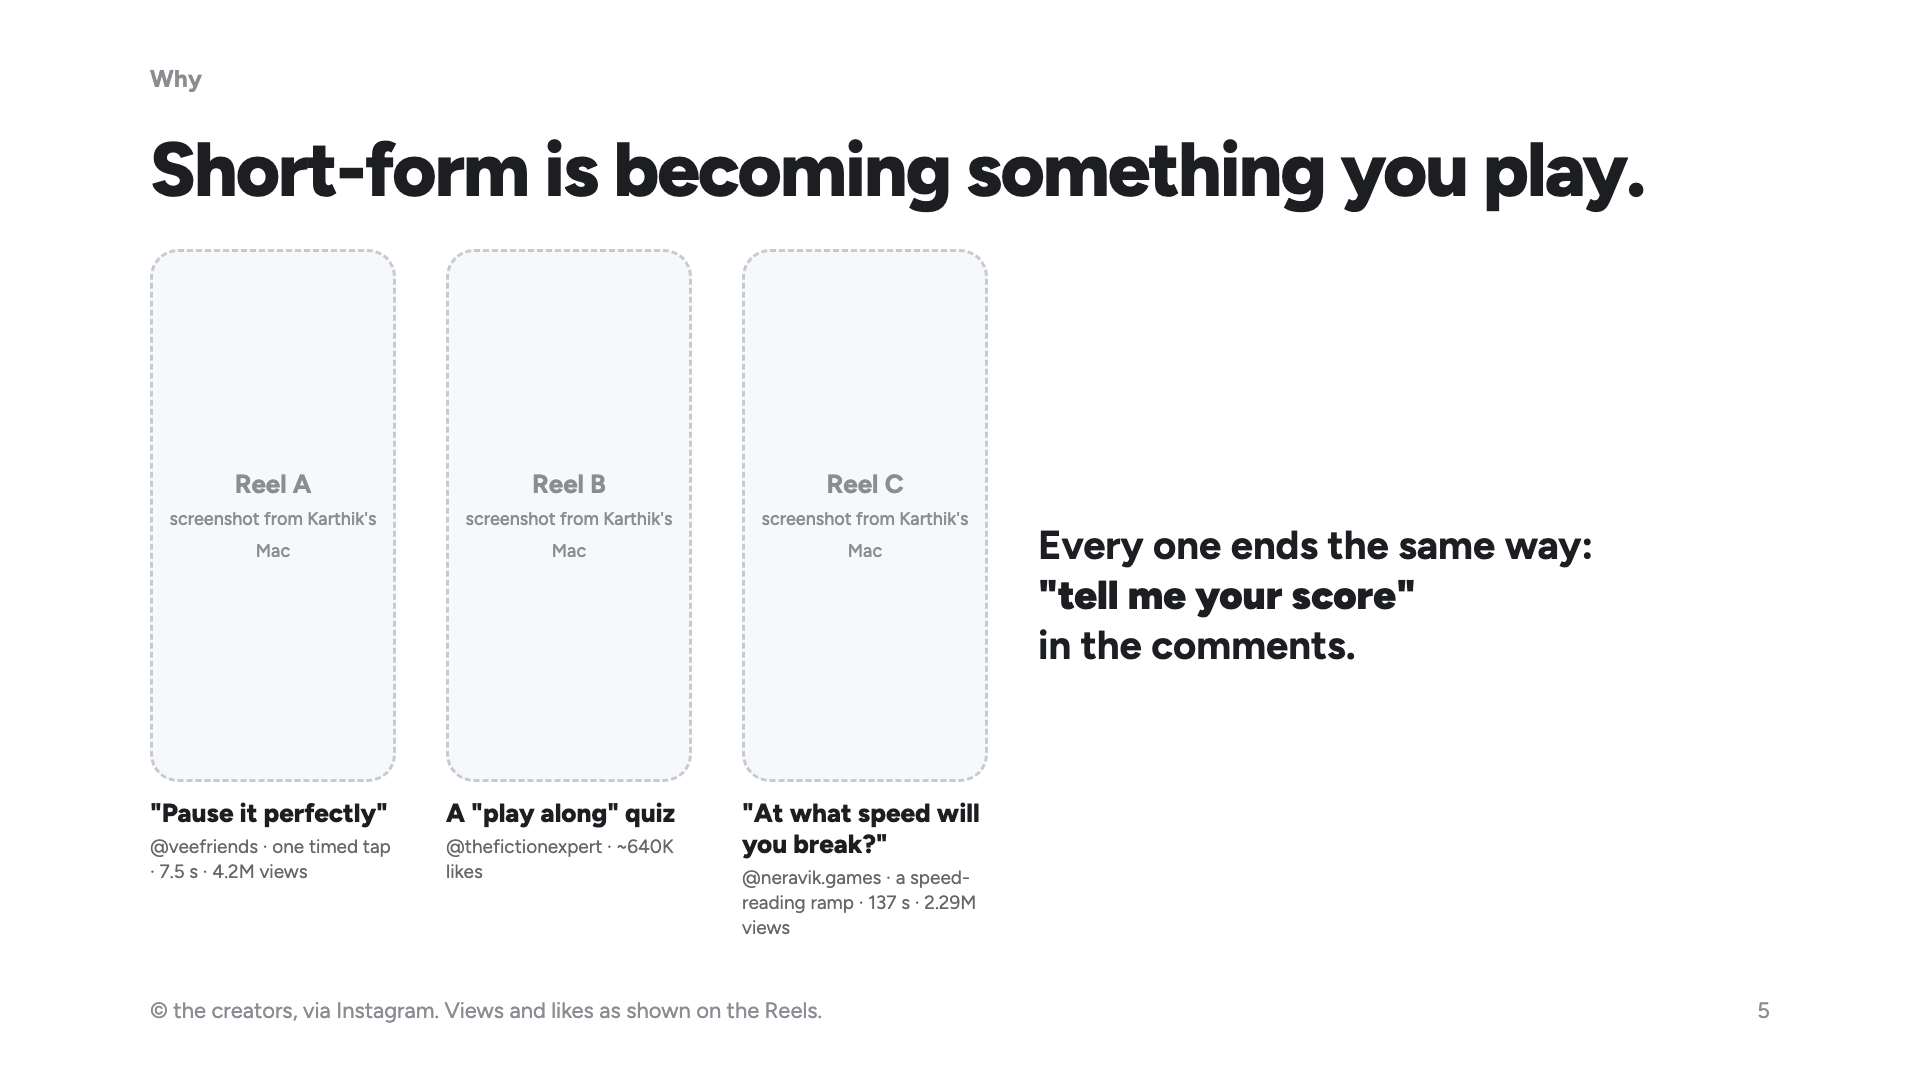
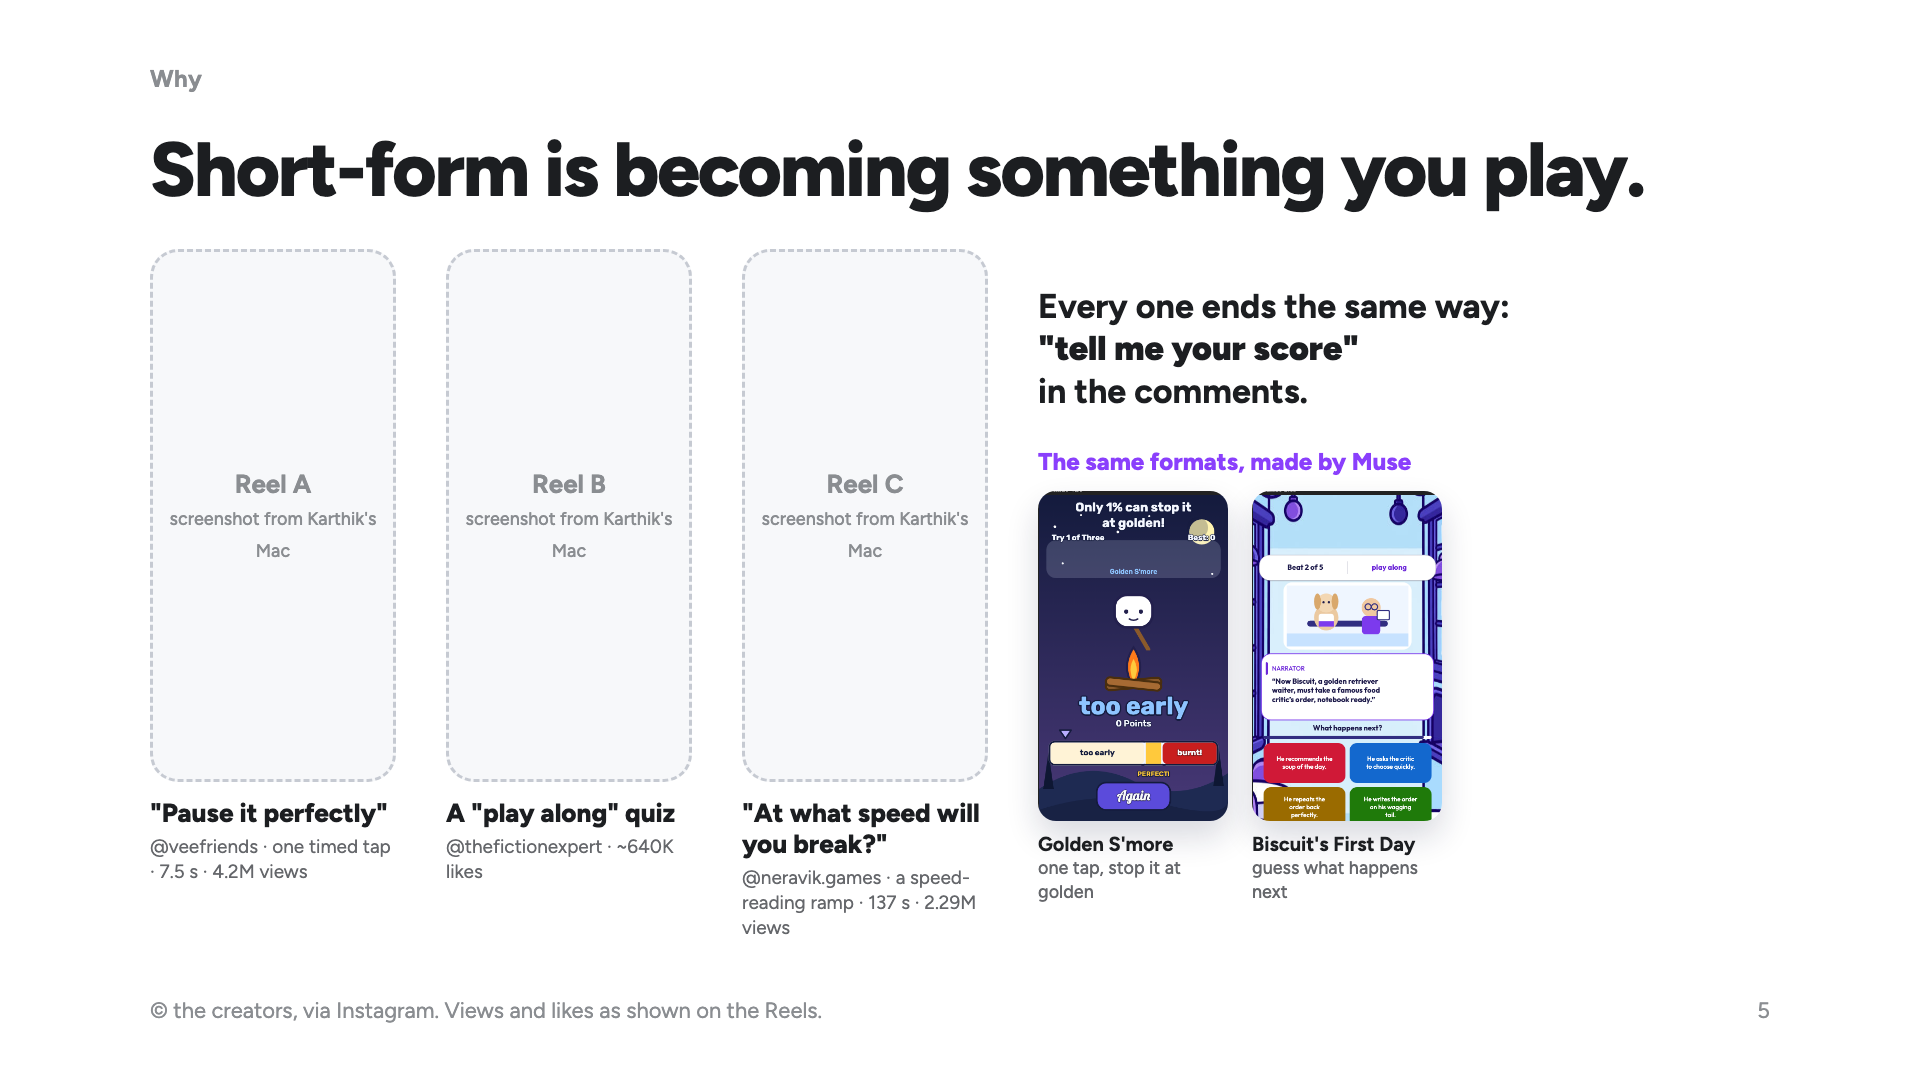
Pitch slide 5: the same Reel formats, made by Muse (Golden S'more, Biscuit's First Day), with the honesty rules in narrative.md

Changed region(s): [[0.5312, 0.275, 0.8438, 0.8556]]

diff --git a/docs/pr/slides/deck.html b/docs/pr/slides/deck.html
@@ -325,6 +325,9 @@ h2 { font-size: 96px; line-height: 1.04; font-weight: 800; letter-spacing: -.025
 .frame.ny3 { width: 160px; height: 347px; }
 .reels { grid-template-columns: 246px 246px 246px 1fr; gap: 50px; }
 .reelf .frame { width: 246px; height: 533px; }
+.rline { font-size: 34px; } .musemade { margin-top: 34px; } .mmh { font-size: 24px; font-weight: 800; color: var(--violet); margin-bottom: 14px; }
+.mmrow { display: flex; gap: 24px; } .mmrow figure { width: 190px; } .mmrow img { width: 190px; height: 330px; object-fit: cover; object-position: top; border-radius: 18px; display: block; box-shadow: 0 16px 32px rgba(16,24,64,.16); }
+.mmrow figcaption { font-size: 18px; color: var(--sub); line-height: 1.3; margin-top: 10px; font-weight: 500; } .mmrow figcaption b { display: block; color: var(--ink); font-size: 20px; }
 </style>
 </head>
 <body>
@@ -409,7 +412,10 @@ h2 { font-size: 96px; line-height: 1.04; font-weight: 800; letter-spacing: -.025
     <div class="reelf"><div class="frame" id="reel1"><span>Reel A<br><small>screenshot from Karthik's Mac</small></span></div><b>"Pause it perfectly"</b><i>@veefriends · one timed tap · 7.5 s · 4.2M views</i></div>
     <div class="reelf"><div class="frame" id="reel2"><span>Reel B<br><small>screenshot from Karthik's Mac</small></span></div><b>A "play along" quiz</b><i>@thefictionexpert · ~640K likes</i></div>
     <div class="reelf"><div class="frame" id="reel3"><span>Reel C<br><small>screenshot from Karthik's Mac</small></span></div><b>"At what speed will you break?"</b><i>@neravik.games · a speed-reading ramp · 137 s · 2.29M views</i></div>
-    <div class="rline">Every one ends the same way:<br><b>"tell me your score"</b><br>in the comments.</div>
+    <div class="rline">Every one ends the same way:<br><b>"tell me your score"</b><br>in the comments.
+      <div class="musemade"><div class="mmh">The same formats, made by Muse</div>
+        <div class="mmrow"><figure><img src="img/muse-golden-smore.png"><figcaption><b>Golden S'more</b>one tap, stop it at golden</figcaption></figure>
+        <figure><img src="img/muse-biscuit-waiter.png"><figcaption><b>Biscuit's First Day</b>guess what happens next</figcaption></figure></div></div></div>
   </div>
   <div class="foot"><span>© the creators, via Instagram. Views and likes as shown on the Reels.</span><span class="pg"></span></div>
 </section>

diff --git a/docs/pr/narrative.md b/docs/pr/narrative.md
@@ -41,6 +41,8 @@ Interactive mini-experiences keep people in their apps, and the industry is movi
 - Three Reels [138]: A "Pause it perfectly" (@veefriends, 7.5 s, 4.2M views, one timed tap); B a "play along" quiz (@thefictionexpert, ~640K likes; don't describe its mechanics); C "At what speed will you break?" (@neravik.games, 137 s, 2.29M views, a speed-reading ramp). All three end with "tell me your score" in the comments. **Line:** "A Curio turns 'tell me your score' in the comments into a real, comparable Group score."
 - Story quiz: The Podium and Purr Earth are hand-made with the story-quiz fragment; never "made by Muse". Root Words is made by Muse.
 
+**The same formats, made by Muse** (slide 5; on Prod, owned by `brainy_studio`, made through the real `POST /v1/generate` pipeline with no hand edits): Golden S'more (`aceba181c0fd7fa0b19e60c1`, Reel A's timed tap) and Biscuit's First Day as a Waiter (`ed793361a7b4f6fce5a0c5b7`, Reel B's play-along quiz). Reel C (a "report your breaking point" ramp) could not be built: all 3 Muse runs failed because our bot gate can't test a self-reported score. Never claim a Muse Curio for C. The Podium, Purr Earth, First Things First and One Move are hand-made, and other new Prod games were built by Opus in our harness with Muse Image art; none of those are "made by Muse". Root Words is Muse-made.
+
 ## 2. Anyone can make one
 
 The friction is gone: everyone can make and share a game, not just developers.
